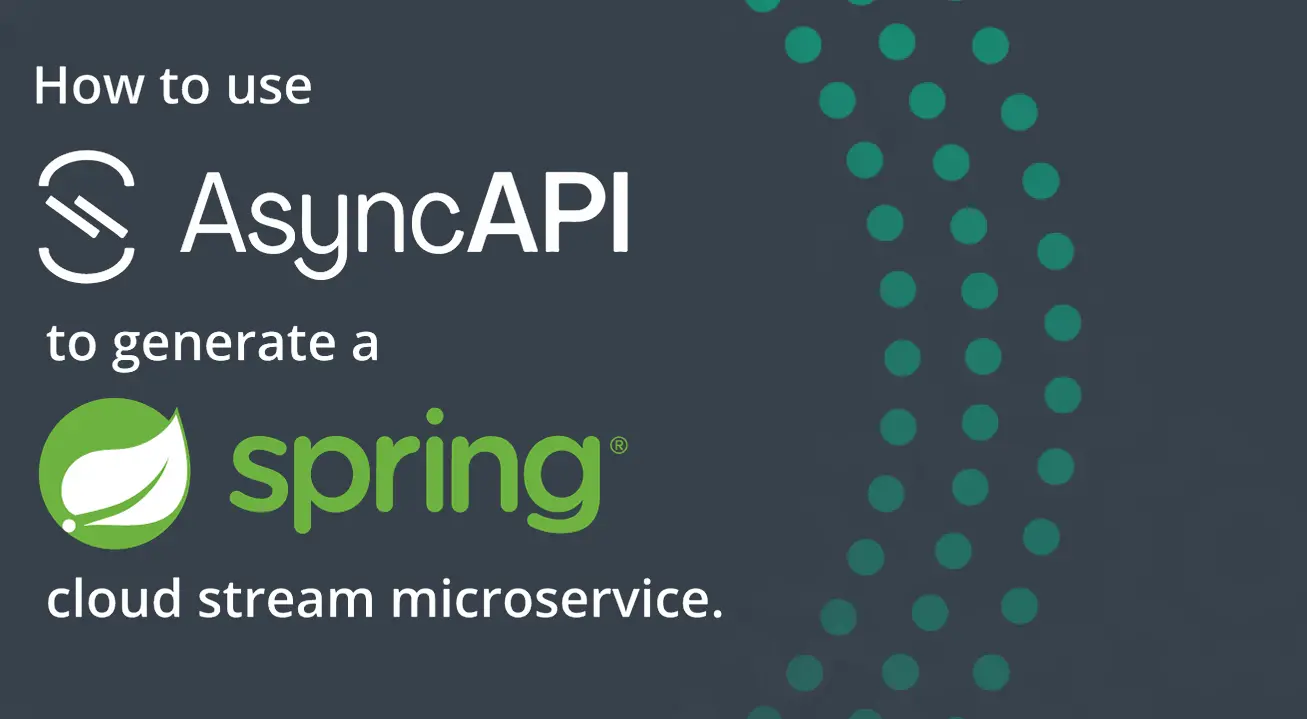
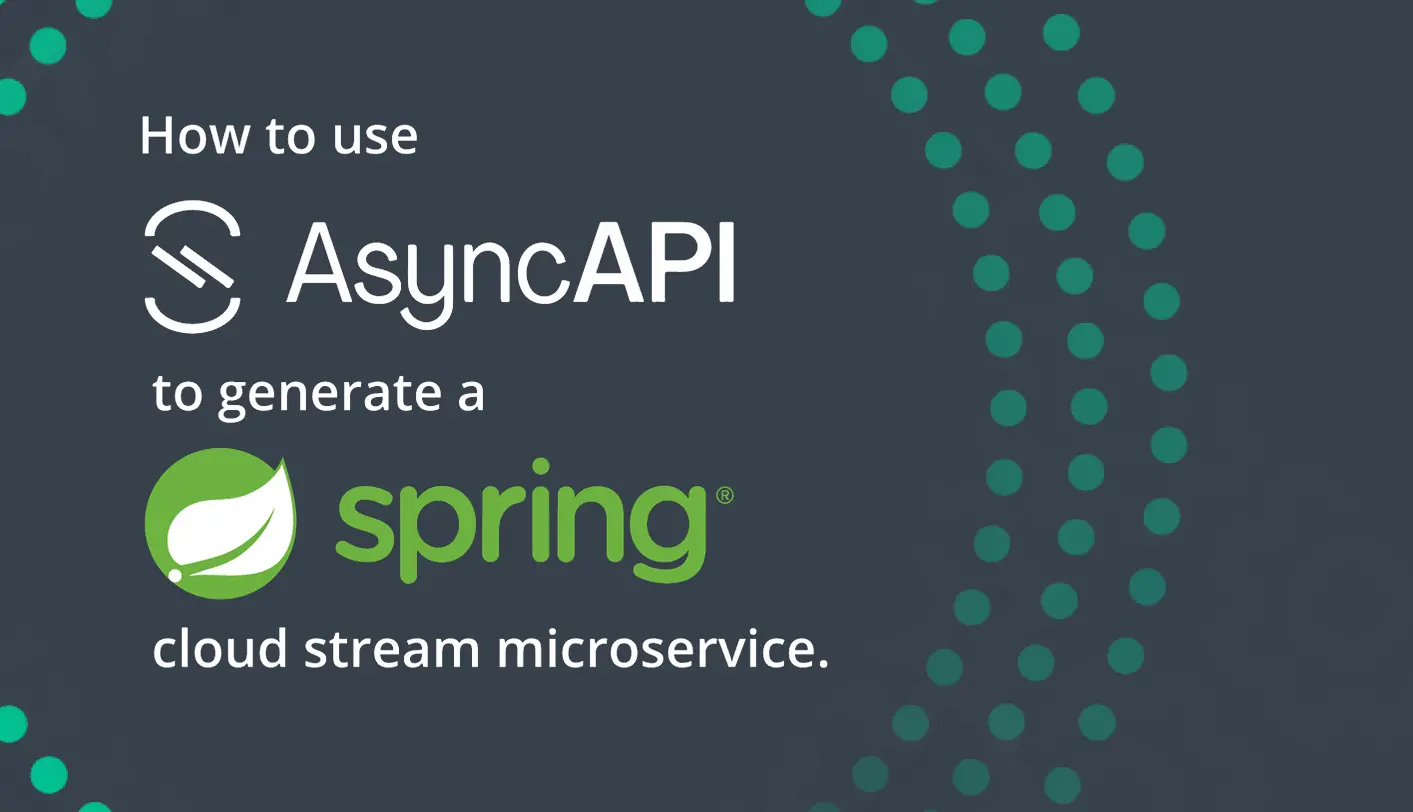
Fix image, update date & weight of blog

diff --git a/content/blog/asyncapi_codegen_scst.md b/content/blog/asyncapi_codegen_scst.md
@@ -2,9 +2,9 @@
 type: blog
 featured: true
 cover: /images/posts/asyncapi-codegen_pic-00.webp
-weight: 100
+weight: 40
 title: "AsyncAPI Code Generation: Microservices Using Spring Cloud Stream"
-date: 2020-05-28T10:00:00+01:00
+date: 2020-06-03T10:00:00+01:00
 tags:
    - solace
    - asyncapi
